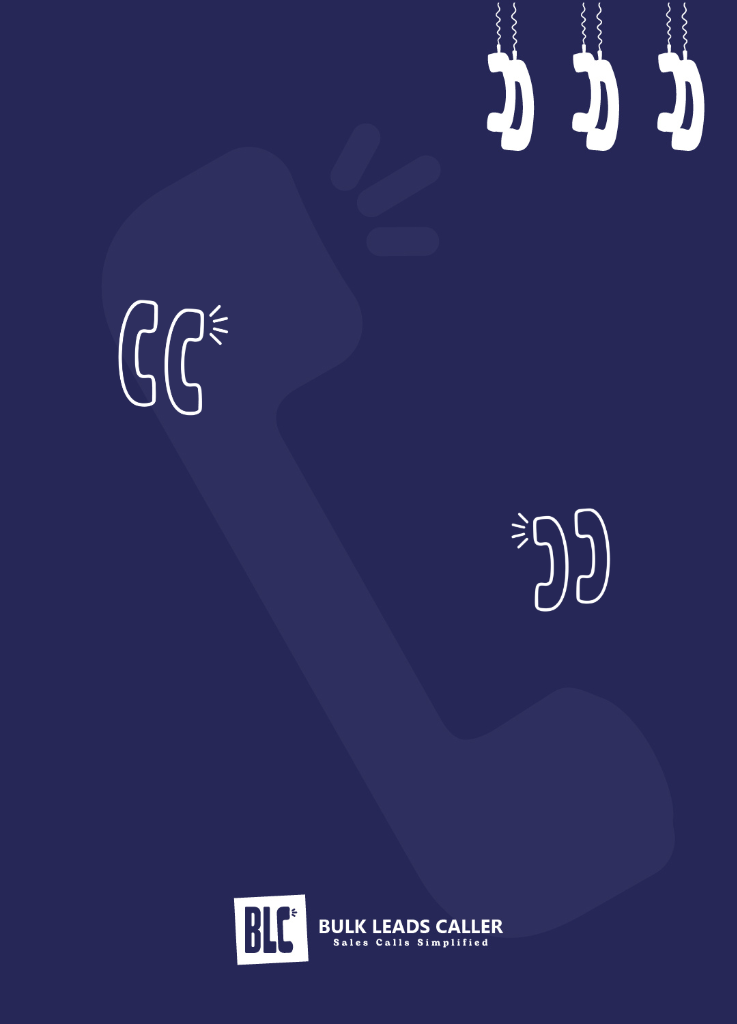
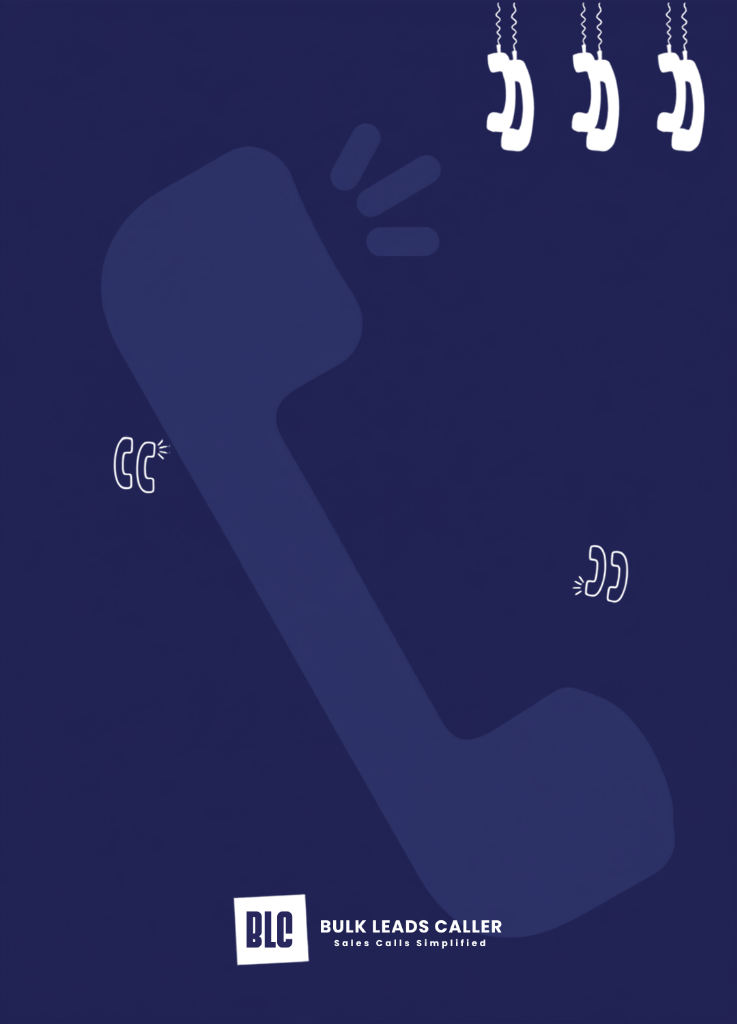
Update bulletproof image logic and clean template

diff --git a/main.py b/main.py
@@ -1,5 +1,4 @@
 import os
-import time
 from datetime import datetime
 import requests
 import google.generativeai as genai
@@ -7,10 +6,9 @@ import google.generativeai as genai
 # Environment Variables
 GEMINI_API_KEY = os.environ.get("GEMINI_API_KEY")
 LINKEDIN_ACCESS_TOKEN = os.environ.get("LINKEDIN_ACCESS_TOKEN")
-LINKEDIN_AUTHOR_URN = os.environ.get("LINKEDIN_AUTHOR_URN") # e.g., urn:li:person:123456789
+LINKEDIN_AUTHOR_URN = os.environ.get("LINKEDIN_AUTHOR_URN")
 
 def get_previous_quotes():
-    import os
     if not os.path.exists('history.txt'):
         return []
     with open('history.txt', 'r', encoding='utf-8') as f:
@@ -18,194 +16,233 @@ def get_previous_quotes():
 
 def generate_unique_quote(previous_quotes):
     genai.configure(api_key=GEMINI_API_KEY)
-    # Using Gemini 1.5 Flash for quick text generation
     model = genai.GenerativeModel('gemini-2.5-flash')
-    
-    prompt = "Generate a short, catchy, and highly motivating 1-2 sentence quote related to sales, cold calling, lead generation, or telecalling. It should align with the mindset of using a 'Bulk Leads Caller' app to maximize sales. Just provide the quote text, nothing else. No quote marks."
-    
-    for _ in range(5): # Try 5 times to get a unique quote
+
+    prompt = """Find a real, famous quote from a well-known person (like Grant Cardone, Steve Jobs, Zig Ziglar, Brian Tracy, Jeffrey Gitomer, Gary Vaynerchuk, Warren Buffett, Napoleon Hill, or other famous sales/business leaders) related to sales, cold calling, lead generation, or business success.
+
+Return ONLY in this exact format (two lines, nothing else):
+QUOTE: [the quote text here]
+AUTHOR: [Full Name]"""
+
+    for _ in range(5):
         response = model.generate_content(prompt)
-        quote = response.text.strip().strip('"').strip("'")
-        
-        # Check similarity (basic exact match/substring match here, can be improved)
-        is_duplicate = False
-        for prev in previous_quotes:
-            if quote.lower() in prev.lower() or prev.lower() in quote.lower():
-                is_duplicate = True
-                break
-                
+        text = response.text.strip()
+
+        quote = ""
+        author = ""
+        for line in text.split('\n'):
+            line = line.strip()
+            if line.startswith('QUOTE:'):
+                quote = line.replace('QUOTE:', '').strip().strip('"').strip("'")
+            elif line.startswith('AUTHOR:'):
+                author = line.replace('AUTHOR:', '').strip()
+
+        if not quote or not author:
+            continue
+
+        is_duplicate = any(
+            quote.lower() in prev.lower() or prev.lower() in quote.lower()
+            for prev in previous_quotes
+        )
         if not is_duplicate:
-            return quote
-            
+            return quote, author
+
     raise Exception("Failed to generate a unique quote after 5 attempts.")
 
-def create_local_image(quote):
+def create_local_image(quote, author):
     from PIL import Image, ImageDraw, ImageFont
     import textwrap
+    import urllib.request
     import os
 
     template_path = 'template.png'
     output_path = 'quote.png'
-    
+
     if not os.path.exists(template_path):
         raise Exception(f"Template image {template_path} not found.")
 
-    img = Image.open(template_path)
+    img = Image.open(template_path).convert('RGB')
     draw = ImageDraw.Draw(img)
-    
-    font_path = 'montserrat.ttf'
-    if not os.path.exists(font_path):
-        import urllib.request
-        # Download a free font (Roboto) directly
-        font_url = "https://github.com/googlefonts/roboto/raw/main/src/hinted/Roboto-Bold.ttf"
+
+    # Download fonts if not present
+    bold_path = 'Roboto-Bold.ttf'
+    regular_path = 'Roboto-Regular.ttf'
+    if not os.path.exists(bold_path):
         try:
-            urllib.request.urlretrieve(font_url, font_path)
-        except Exception as e:
-            print(f"Failed to download font, using default: {e}")
-            
-    try:
-        font = ImageFont.truetype(font_path, 40)
-    except Exception:
-        # Fallback for local windows test
-        try:
-            font = ImageFont.truetype('C:\\Windows\\Fonts\\arialbd.ttf', 40)
+            urllib.request.urlretrieve("https://github.com/googlefonts/roboto/raw/main/src/hinted/Roboto-Bold.ttf", bold_path)
         except Exception:
-            font = ImageFont.load_default()
+            pass
+
+    if not os.path.exists(regular_path):
+        try:
+            urllib.request.urlretrieve("https://github.com/googlefonts/roboto/raw/main/src/hinted/Roboto-Regular.ttf", regular_path)
+        except Exception:
+            pass
+
+    # HARD boundaries - text NEVER crosses these
+    L   = 175  # left boundary
+    R   = 565  # right boundary
+    TOP = 440  # top boundary
+    BOT = 598  # bottom boundary
+    CX  = (L + R) // 2
+    MAX_W = R - L
+    MAX_H = BOT - TOP
+
+    # Try font sizes from large to small until everything fits
+    font_size = 38
+    lines = []
+    font_q = None
+
+    for f_size in range(38, 16, -1):
+        try:
+            font_q = ImageFont.truetype(bold_path, f_size)
+        except Exception:
+            try:
+                font_q = ImageFont.truetype('C:\\Windows\\Fonts\\arialbd.ttf', f_size)
+            except Exception:
+                font_q = ImageFont.load_default()
+
+        LINE_H = int(f_size * 1.35)
+
+        # Find max chars_per_line that doesn't exceed MAX_W
+        cpw = 40
+        for w in range(40, 3, -1):
+            raw = textwrap.wrap(quote, width=w)
+            # Check pixel width of each line
+            if all(draw.textbbox((0,0), ln, font=font_q)[2] - draw.textbbox((0,0), ln, font=font_q)[0] <= MAX_W for ln in raw):
+                cpw = w
+                break
         
-    width, height = img.size
-    
-    # Wrap text to fit perfectly between the two telephone icons
-    # Reduced width to ensure it doesn't overlap with the icons on the sides
-    lines = textwrap.wrap(quote, width=22)
-    
-    # Calculate total text height
-    total_text_height = sum([draw.textbbox((0, 0), line, font=font)[3] for line in lines])
-    
-    # Start y to center vertically
-    y_text = (height - total_text_height) / 2
-    
-    for line in lines:
-        line_width = draw.textbbox((0, 0), line, font=font)[2]
-        x_text = (width - line_width) / 2
-        draw.text((x_text, y_text), line, font=font, fill=(255, 255, 255))
-        y_text += draw.textbbox((0, 0), line, font=font)[3] + 15
-        
+        lines = textwrap.wrap(quote, width=cpw)
+
+        # Check total height fits
+        if len(lines) * LINE_H <= MAX_H:
+            font_size = f_size
+            break
+
+    # Draw centered in zone
+    y0 = (TOP + BOT) // 2 - (len(lines) * LINE_H) // 2
+    for i, line in enumerate(lines):
+        bb = draw.textbbox((0,0), line, font=font_q)
+        lw = bb[2] - bb[0]
+        x  = CX - lw // 2
+        # Safety clamp
+        x  = max(L, min(x, R - lw))
+        draw.text((x, y0 + i*LINE_H), line, font=font_q, fill=(255,255,255))
+
+    # Author: below right icon, right-aligned, never outside R
+    try:
+        font_a = ImageFont.truetype(regular_path, 20)
+    except Exception:
+        try:
+            font_a = ImageFont.truetype('C:\\Windows\\Fonts\\arial.ttf', 20)
+        except Exception:
+            font_a = font_q
+
+    aline = f"— {author}"
+    bb = draw.textbbox((0,0), aline, font=font_a)
+    aw = bb[2] - bb[0]
+    draw.text((R - aw, BOT + 10), aline, font=font_a, fill=(200,200,255))
+
     img.save(output_path)
     return output_path
 
 def upload_image_to_linkedin(image_path):
-    # 1. Register Upload
     register_url = "https://api.linkedin.com/v2/assets?action=registerUpload"
     headers = {
         "Authorization": f"Bearer {LINKEDIN_ACCESS_TOKEN}",
         "Content-Type": "application/json",
         "X-Restli-Protocol-Version": "2.0.0"
     }
-    
     register_body = {
         "registerUploadRequest": {
-            "recipes": [
-                "urn:li:digitalmediaRecipe:feedshare-image"
-            ],
+            "recipes": ["urn:li:digitalmediaRecipe:feedshare-image"],
             "owner": LINKEDIN_AUTHOR_URN,
-            "serviceRelationships": [
-                {
-                    "relationshipType": "OWNER",
-                    "identifier": "urn:li:userGeneratedContent"
-                }
-            ]
+            "serviceRelationships": [{
+                "relationshipType": "OWNER",
+                "identifier": "urn:li:userGeneratedContent"
+            }]
         }
     }
-    
-    res = requests.post(register_url, headers=headers, json=register_body)
+    res      = requests.post(register_url, headers=headers, json=register_body)
     res_data = res.json()
-    
     upload_url = res_data['value']['uploadMechanism']['com.linkedin.digitalmedia.uploading.MediaUploadHttpRequest']['uploadUrl']
-    asset_urn = res_data['value']['asset']
-    
-    # 2. Upload Image
+    asset_urn  = res_data['value']['asset']
+
     with open(image_path, 'rb') as f:
         image_data = f.read()
-        
-    upload_headers = {
-        "Authorization": f"Bearer {LINKEDIN_ACCESS_TOKEN}",
-    }
+
+    upload_headers = {"Authorization": f"Bearer {LINKEDIN_ACCESS_TOKEN}"}
     upload_res = requests.put(upload_url, headers=upload_headers, data=image_data)
-    if upload_res.status_code != 201:
-        raise Exception("Failed to upload image to LinkedIn.")
-        
+    if upload_res.status_code not in (200, 201):
+        raise Exception(f"Failed to upload image to LinkedIn: {upload_res.text}")
+
     return asset_urn
 
-def post_to_linkedin(quote, asset_urn):
+def post_to_linkedin(quote, author, asset_urn):
     post_url = "https://api.linkedin.com/v2/ugcPosts"
-    headers = {
+    headers  = {
         "Authorization": f"Bearer {LINKEDIN_ACCESS_TOKEN}",
         "Content-Type": "application/json",
         "X-Restli-Protocol-Version": "2.0.0"
     }
-    
+    caption = f'"{quote}"\n— {author}\n\n#Motivation #Sales #BulkLeadsCaller #ColdCalling #LeadGeneration'
     post_body = {
         "author": LINKEDIN_AUTHOR_URN,
         "lifecycleState": "PUBLISHED",
         "specificContent": {
             "com.linkedin.ugc.ShareContent": {
-                "shareCommentary": {
-                    "text": f"{quote}\n\n#Motivation #DailyQuote #Inspiration"
-                },
+                "shareCommentary": {"text": caption},
                 "shareMediaCategory": "IMAGE",
-                "media": [
-                    {
-                        "status": "READY",
-                        "description": {"text": "Daily Quote"},
-                        "media": asset_urn,
-                        "title": {"text": "Daily Quote"}
-                    }
-                ]
+                "media": [{
+                    "status": "READY",
+                    "description": {"text": "Daily Quote"},
+                    "media": asset_urn,
+                    "title": {"text": "Daily Quote"}
+                }]
             }
         },
         "visibility": {
             "com.linkedin.ugc.MemberNetworkVisibility": "PUBLIC"
         }
     }
-    
     res = requests.post(post_url, headers=headers, json=post_body)
     if res.status_code != 201:
         raise Exception(f"Failed to post to LinkedIn: {res.text}")
-        
-    # Construct URL (approximation, true URL requires additional API calls, but returning the URN is typical)
-    post_id = res.json().get('id')
+
+    post_id = res.json().get('id', '')
     return f"https://www.linkedin.com/feed/update/{post_id}"
 
-def append_to_history(quote, post_url):
-    from datetime import datetime
+def append_to_history(quote, author, post_url):
     date_str = datetime.now().strftime('%Y-%m-%d %H:%M:%S')
     with open('history.txt', 'a', encoding='utf-8') as f:
-        f.write(f"{date_str} | {quote} | {post_url}\n")
+        f.write(f"{date_str} | {author}: {quote} | {post_url}\n")
 
 def main():
     print("Starting Daily LinkedIn Quote Publisher...")
-    
+
     print("Fetching previous quotes...")
     previous_quotes = get_previous_quotes()
-    
-    print("Generating new unique quote...")
-    quote = generate_unique_quote(previous_quotes)
-    print(f"Generated Quote: {quote}")
-    
-    print("Creating quote image locally...")
-    image_path = create_local_image(quote)
-    
+
+    print("Generating famous quote...")
+    quote, author = generate_unique_quote(previous_quotes)
+    print(f"Quote  : {quote}")
+    print(f"Author : {author}")
+
+    print("Creating quote image...")
+    image_path = create_local_image(quote, author)
+
     print("Uploading image to LinkedIn...")
     asset_urn = upload_image_to_linkedin(image_path)
-    
+
     print("Publishing post...")
-    post_url = post_to_linkedin(quote, asset_urn)
-    print(f"Published successfully! URL: {post_url}")
-    
-    print("Logging to local history...")
-    append_to_history(quote, post_url)
-    
-    print("Workflow completed successfully!")
+    post_url = post_to_linkedin(quote, author, asset_urn)
+    print(f"Published! URL: {post_url}")
+
+    print("Logging to history...")
+    append_to_history(quote, author, post_url)
+
+    print("Done!")
 
 if __name__ == "__main__":
     main()
